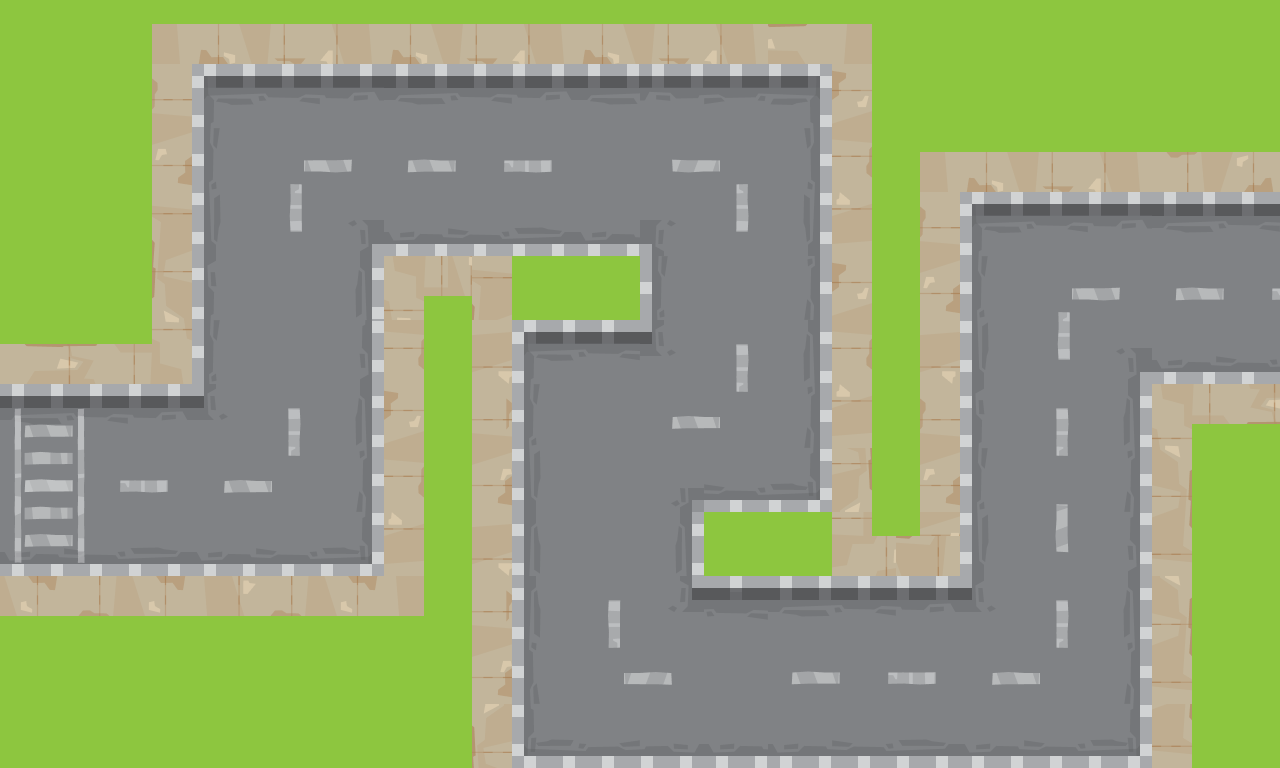
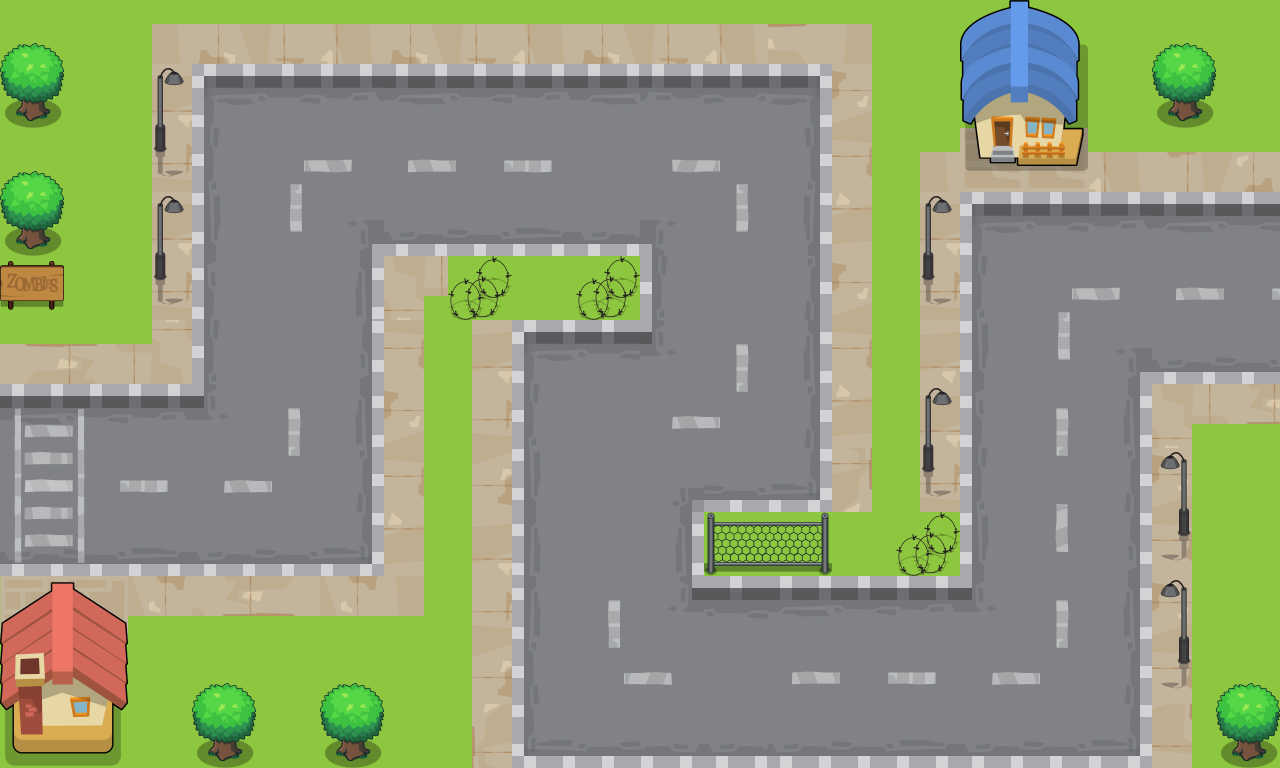
refr(/game): change lelel-1 map

diff --git a/packages/client/src/pages/game/index.tsx b/packages/client/src/pages/game/index.tsx
@@ -29,7 +29,7 @@ import {
 } from "@/constants/index";
 import sellImg from "@/assets/img/towerMenu/sell.png";
 import upgrImg from "@/assets/img/towerMenu/upgr.png";
-import myImage from "@/game/img/gameMap.png";
+import level_1Map from "@/assets/game/levels/Level-1.png";
 import style from "./style.module.scss";
 
 import { toggleFullscreen } from "@/utils/fullscreenMode";
@@ -64,7 +64,7 @@ const GamePage = () => {
       1280,
       768,
       canvasRef.current,
-      myImage,
+      level_1Map,
     );
     const enemiesGenerator = new EnemiesGenerator(mapGenerator.ctx, waypoints);
     const tilesGenerator = new TilesGenerator(
